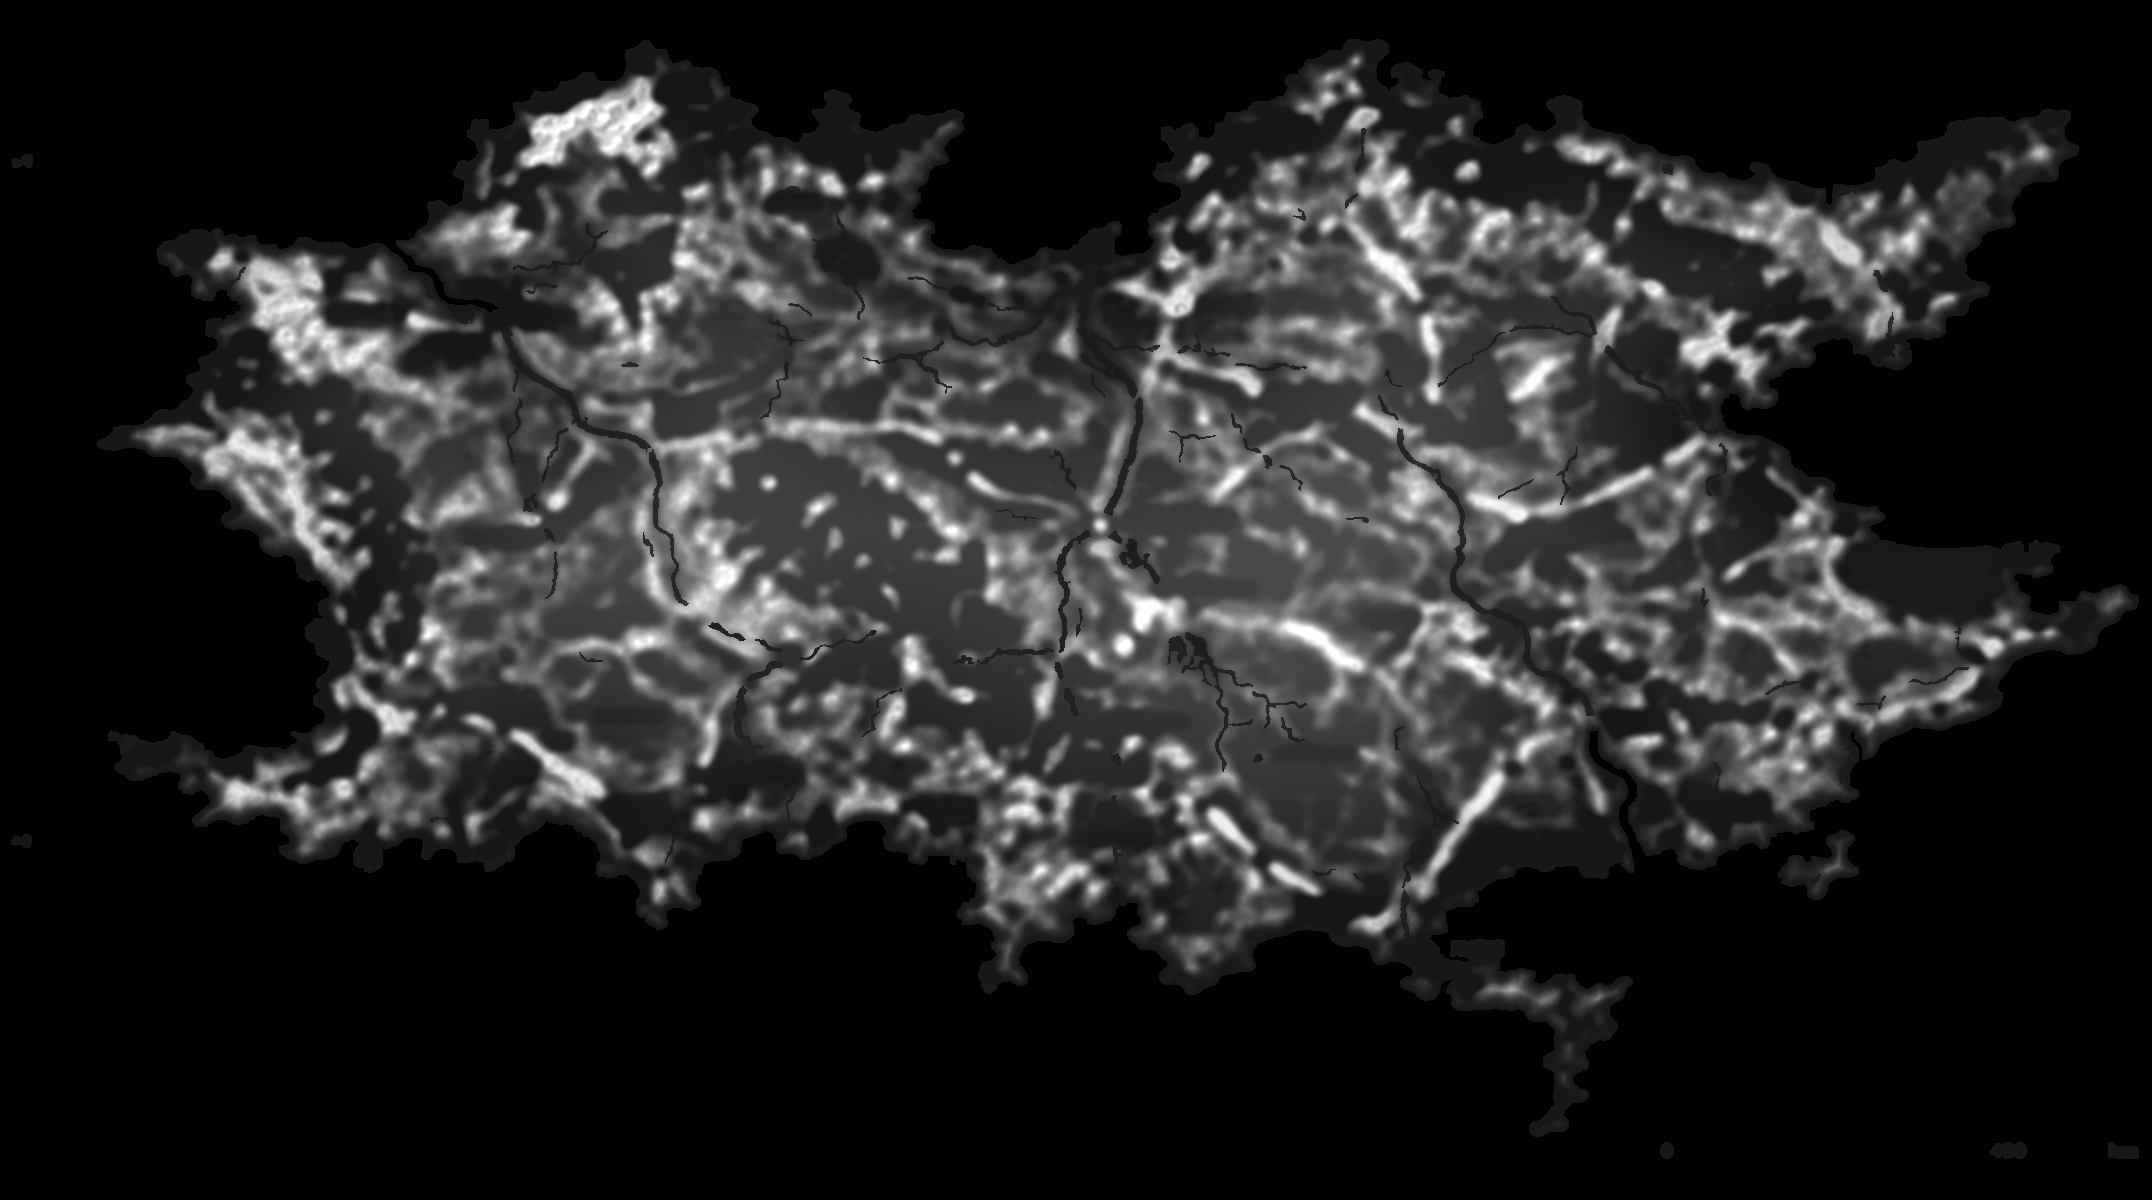
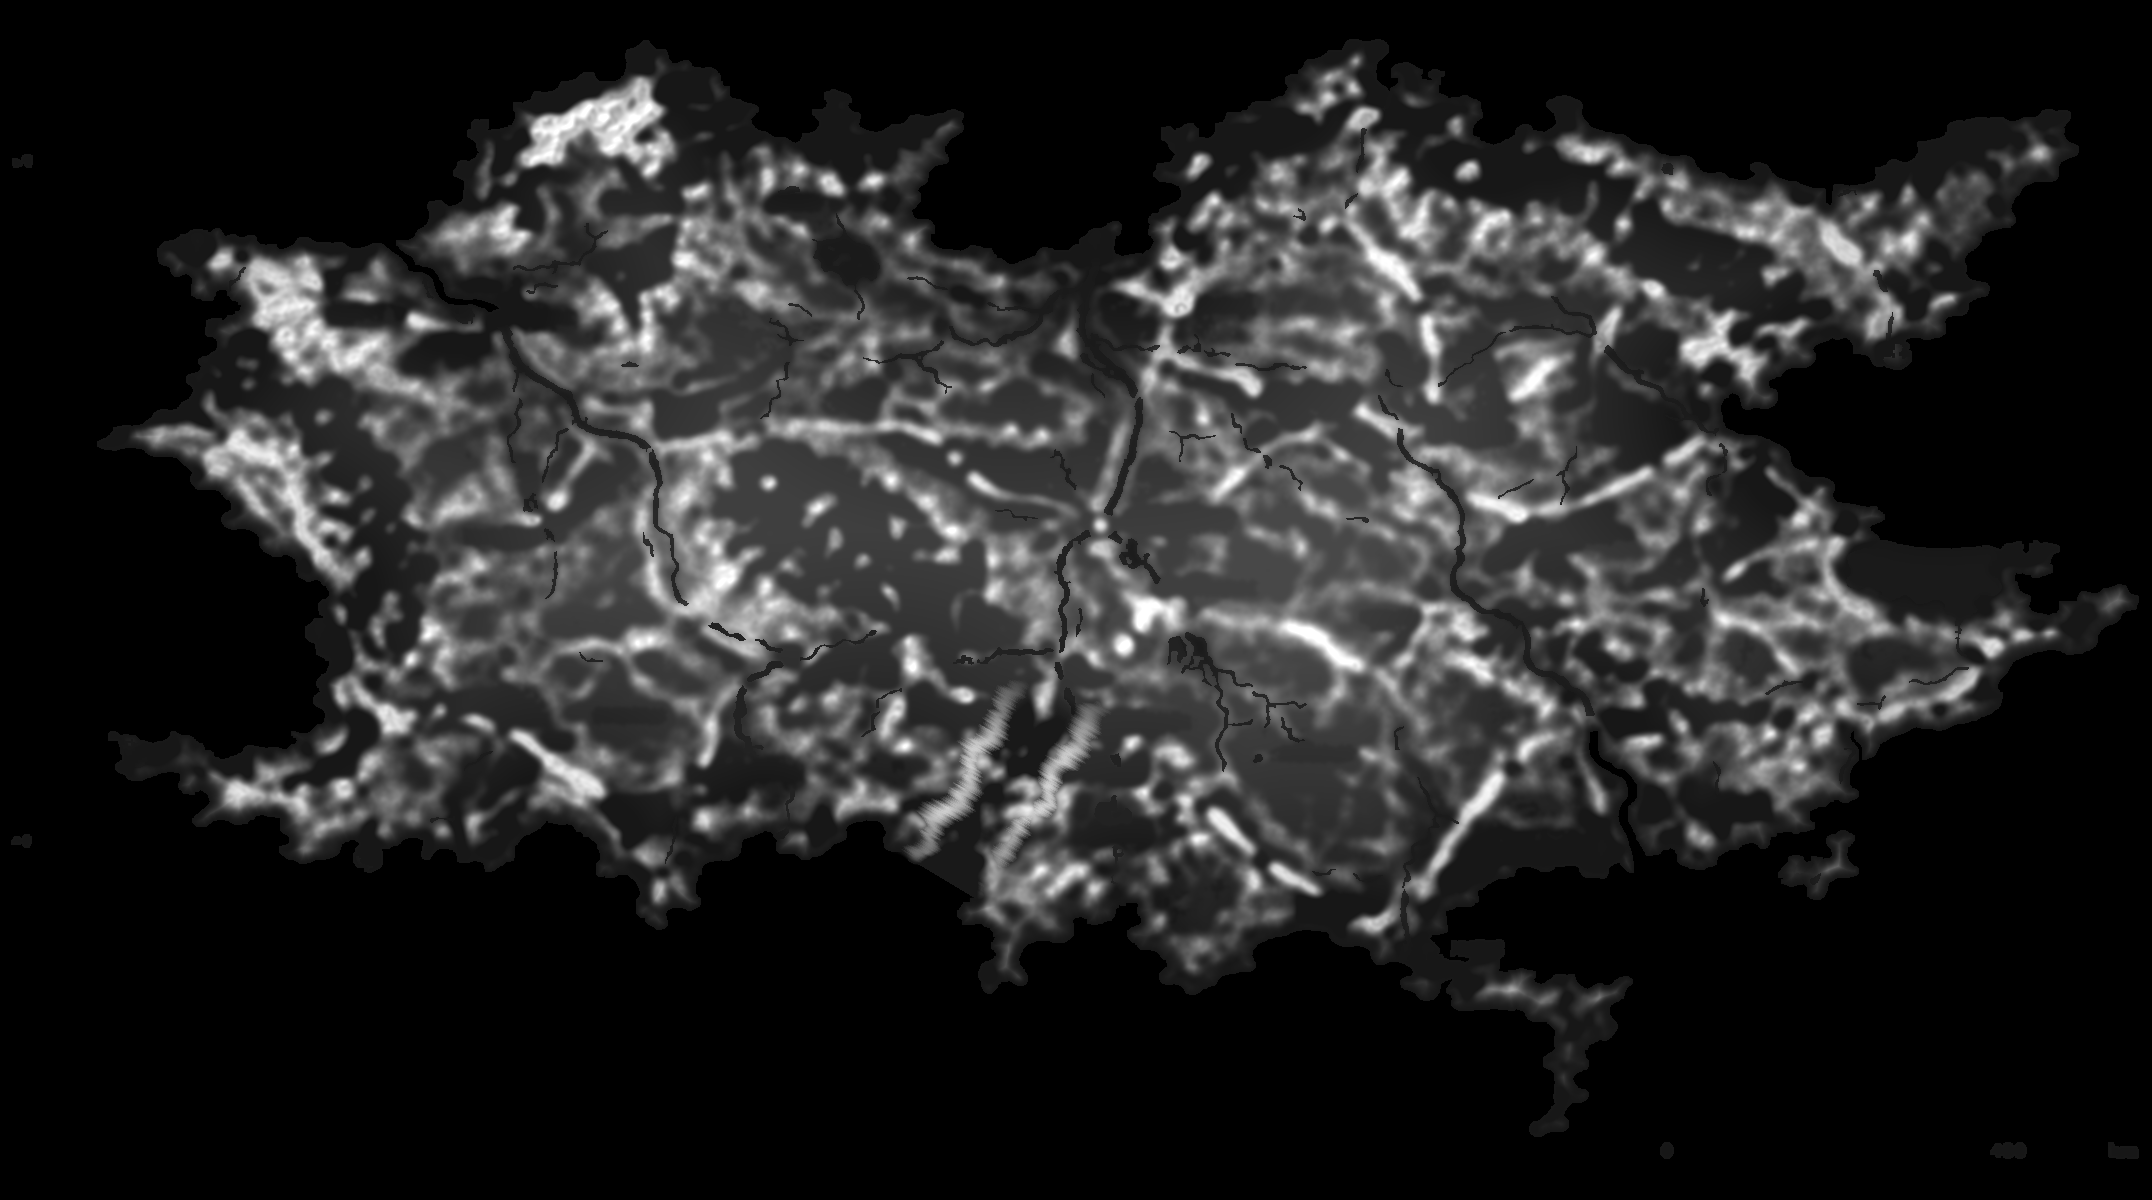
feat(flight): 地形編輯管線 + 卡耶爾山谷的兩道包夾山脈 — ver -223
build_terrain.py：從 _src/terrain/ 的基底重算，輸出高度圖與地表色圖。
基底永不修改，每次都從頭重算 —— 地形改壞回不去，而且調參數勢必反覆重跑。

⚠ 兩張圖必須同步。高度圖決定形狀，但**河道遮罩是從地表色反推的**
  （b>r+16 && b>g+4 && 70<b<200）。只改高度是乾谷，只改顏色是畫在山坡上的藍線。

山脈的幾何取自 Reference/R1water.png 的綠塊（PCA 實測主軸 121.0°、間距 80px）。
⚠ 綠塊是**走向示意**不是形狀，不能照著畫成長方形。

三個踩過的坑（都留在註解裡）：
1. 長度取 300 → 沿 121° 走到 +100px 就進雲海，憑空造出 11877px 新海岸線。
   收到 130，並把抬升乘上原始陸地遮罩。綠塊畫 124px 是有道理的。
2. 谷底壓到定值 52 → 最深切了 187 灰階。谷心 ±40px 有 20% 的像素高於 150，
   那是真的山，被整片削平。改成「最多只切 maxCut=42」，谷底保有原本起伏。
3. `np.maximum(out, SEA_GREY+4)` 寫成全圖 → 整片雲海被抬成陸地，
   海岸線動了 50.8%。那個下限只能作用在谷內。

成果：西脊 +133 抬到 186、谷底 -42、東脊 +70 抬到 195。
海岸線變動 1069px（0.041%，全是海變陸，集中在山脊西南端接岸處，離最近的城 249px）。

⚠ 那 1069px 新陸地不在 region_map 裡（索引是用舊的陸地遮罩建的），
  runtime 查表會回 0。範圍 70x43px，暫時不管。

Changed region(s): [[0.4047, 0.5858, 0.5293, 0.74]]

diff --git a/config.js b/config.js
@@ -8,7 +8,7 @@
 
 /* 版本號：顯示於診斷 HUD（首頁連點團徽 5 下開啟），每次部署遞增尾碼——
  *  用來確認手機（尤其 iOS 主畫面 App 的頑固快取）實際跑到的是哪一版。 */
-export const VERSION = 'ver 2026.08.19-222';
+export const VERSION = 'ver 2026.08.19-223';
 
 export const GAME_CONFIG = {
 

diff --git a/flight/build_terrain.py b/flight/build_terrain.py
@@ -1,0 +1,196 @@
+# -*- coding: utf-8 -*-
+"""依 Reference/R1water.png 的水文與地形設計，改寫大陸的高度圖與地表色圖。
+
+▍為什麼是「從基底重算」而不是就地修改
+地形改壞就回不去，而且要調參數勢必反覆重跑。所以原始的兩張圖鎖在
+`_src/terrain/` 當基底，**永不修改**；每次執行都從基底重算一次，輸出覆蓋
+`silvermoon_heightmap.png` / `silvermoon_terrain.png`。要退回原狀就把 EDITS
+清空重跑。
+
+▍為什麼兩張圖都要動
+高度圖決定形狀，但**河道遮罩是從地表色反推的**（index.html 的
+`b>r+16 && b>g+4 && 70<b<200`）。只改高度會得到「有溝沒有水色」的乾谷；
+只改顏色會得到「畫在山坡上的藍線」。兩邊必須同步。
+
+▍幾何來自哪裡
+Reference/R1water.png 是疊在 silvermoon_sheet.png 上畫的，兩張同尺寸，所以
+差分就能把畫上去的東西抽出來（同 build_regions.py）。實測抽到：
+  · 4 座高山湖，半徑均 48px（≈960 世界單位）
+  · 河道 32843 px（全圖 1.27%），7 條線段
+  · 2 道山脈走向示意，各 124x42px，主軸同為 121.0°
+⚠ 綠色方塊是**走向示意**，不是山脈的形狀。照著畫成長方形是錯的 ——
+  要沿那個軸拉出有起伏的山脊，長度也不受方塊長度限制。
+
+用法：  py flight/build_terrain.py [--only ridges|lakes|rivers]
+"""
+import argparse
+import math
+import os
+
+import cv2
+import numpy as np
+from PIL import Image
+
+HERE = os.path.dirname(os.path.abspath(__file__))
+BASE_H = os.path.join(HERE, '_src/terrain/heightmap_base.png')
+BASE_T = os.path.join(HERE, '_src/terrain/terrain_base.png')
+OUT_H = os.path.join(HERE, 'silvermoon_heightmap.png')
+OUT_T = os.path.join(HERE, 'silvermoon_terrain.png')
+
+MAP_SCALE = 20
+CLOUD_H = 44
+PEAK_SCALE = 520
+SEA_GREY = CLOUD_H / PEAK_SCALE * 255.0      # 21.6
+
+# ── 卡耶爾山谷：兩道包夾的山脈 ────────────────────────────────────────
+# 中心與主軸取自 R1water 的綠塊（PCA 實測 121.0°，兩塊間距 80px）。
+# ⚠ len 遠大於綠塊的 124px：那兩塊只是走向示意。實測現況的橫剖面在
+#   -80~-10px 已有 99~169 的高地、+70~+150 有 118~195，山脈本來就在那裡，
+#   這裡是把它們接起來、加高、讓中間的走廊乾淨。
+# ⚠ 長度 130 不是隨便取的：沿 121° 走到 +100px 就進雲海了（實測 17 個取樣點
+#   有 3~4 個在海平面以下）。綠塊畫 124px 是有道理的，延伸太長會憑空造出新陸地
+#   —— 第一版用 300 造出 11877px 的新海岸線，城的定位與國界索引全部要重跑。
+RIDGES = [
+    # (中心x, 中心y, 主軸角度°, 長度px, 半寬px, 脊頂灰階, 起伏幅度)
+    (963, 777, 121.0, 130, 24, 200, 32),
+    (1041, 794, 121.0, 130, 24, 212, 32),
+]
+# ⚠ maxCut 是這裡的關鍵。第一版把谷底壓到定值 52，結果最深切了 187 灰階 ——
+#   谷心 ±40px 有 20% 的像素高於 150，那是真的山，被整片削平。
+#   改成「最多只切 maxCut」，谷底因此保有原本的起伏，而且不會挖成峽谷。
+VALLEY = dict(x=1002, y=786, ang=121.0, length=110, half=20, feather=16, maxCut=42)
+
+
+def ridge_field(H, W, cx, cy, ang_deg, length, half, peak, wob, seed):
+    """沿一條線段生成山脊的高度場（只加不減，回傳要加上去的量）。
+
+    ⚠ 脊線要有起伏。等寬等高的直脊在低解析度緩衝上讀起來像一道牆 ——
+      這個引擎的地形是 234x334 上採樣的低頻內容，人造的規則形狀特別顯眼。
+      沿脊長加一條低頻噪聲，脊頂高度與中心線位置都跟著擺。
+    ⚠ 只回傳增量，由呼叫端做 max()：直接寫入會把既有的山削掉。
+    """
+    rng = np.random.default_rng(seed)
+    a = math.radians(ang_deg)
+    ux, uy = math.cos(a), math.sin(a)          # 沿脊
+    vx, vy = -uy, ux                           # 垂直脊
+
+    yy, xx = np.mgrid[0:H, 0:W].astype(np.float32)
+    dx, dy = xx - cx, yy - cy
+    t = dx * ux + dy * uy                      # 沿脊的座標
+    s = dx * vx + dy * vy                      # 離脊心的距離
+
+    # 沿脊的低頻起伏：脊頂高度與中心線橫向位移各一條
+    n = 512
+    ts = np.linspace(-length, length, n)
+    k = rng.normal(size=n)
+    k = np.convolve(np.r_[k, k, k], np.ones(41) / 41, 'same')[n:2 * n]
+    k /= (np.abs(k).max() + 1e-6)
+    k2 = rng.normal(size=n)
+    k2 = np.convolve(np.r_[k2, k2, k2], np.ones(61) / 61, 'same')[n:2 * n]
+    k2 /= (np.abs(k2).max() + 1e-6)
+
+    tc = np.clip((t + length) / (2 * length) * (n - 1), 0, n - 1)
+    i0 = tc.astype(np.int32)
+    hk = k[i0]
+    off = k2[i0] * half * 0.55                 # 中心線擺動
+    s = s - off
+
+    # 沿脊：兩端收斂（不然山脈是突然開始的）
+    along = np.clip(1.0 - (np.abs(t) / length) ** 2.2, 0, 1)
+    # 橫向：脊的斷面。用 cos² 而不是高斯 —— 高斯的尾巴太長，會把整片抬起來
+    w = half * (1.0 + 0.25 * hk)
+    lat = np.clip(1.0 - (np.abs(s) / np.maximum(w, 1e-3)), 0, 1)
+    lat = np.sin(lat * math.pi / 2) ** 2
+
+    amp = peak + wob * hk
+    return (along * lat * amp).astype(np.float32)
+
+
+def apply_ridges(h, land0):
+    add = np.zeros_like(h)
+    for i, (cx, cy, ang, ln, half, peak, wob) in enumerate(RIDGES):
+        add = np.maximum(add, ridge_field(h.shape[0], h.shape[1],
+                                          cx, cy, ang, ln, half, peak, wob, 1000 + i))
+    # ⚠ 只在**原本就是陸地**的地方抬升。不擋的話山脊會延伸到雲海上憑空造出
+    #   新陸地，海岸線一動，城的定位、路網、國界索引全部要重跑。
+    #   邊緣羽化一下，免得山脊在海岸線上被切成斷面。
+    lm = cv2.GaussianBlur(land0.astype(np.float32), (0, 0), 6.0)
+    add *= np.clip((lm - 0.35) / 0.5, 0, 1)
+    # ⚠ 只抬不降：既有的山比脊高的地方保持原樣（同河面整平那條規則）
+    out = np.maximum(h, add)
+    n = int((out > h + 0.5).sum())
+    print('  山脈：抬升 %d px（佔全圖 %.2f%%），最高 +%.0f 灰階'
+          % (n, 100.0 * n / h.size, (out - h).max()))
+    return out
+
+
+def carve_valley(h):
+    """把兩脊之間的走廊壓平成溪谷。
+
+    ⚠ 壓到定值會挖出峽谷（河面整平那一輪的教訓）。這裡是**上限**不是設定值：
+      高於 floor 的才壓下來，本來就低的不動，谷底因此保有原本的起伏。
+    """
+    V = VALLEY
+    a = math.radians(V['ang'])
+    ux, uy = math.cos(a), math.sin(a)
+    vx, vy = -uy, ux
+    yy, xx = np.mgrid[0:h.shape[0], 0:h.shape[1]].astype(np.float32)
+    dx, dy = xx - V['x'], yy - V['y']
+    t = dx * ux + dy * uy
+    s = np.abs(dx * vx + dy * vy)
+    inside = (np.abs(t) < V['length']) & (s < V['half'] + V['feather'])
+    k = np.clip((V['half'] + V['feather'] - s) / max(1e-3, V['feather']), 0, 1)
+    k *= np.clip(1.0 - (np.abs(t) / V['length']) ** 3, 0, 1)
+    out = np.where(inside, h - k * V['maxCut'], h)
+    # ⚠ 谷底不准掉進雲海 —— 但這個下限**只能作用在谷內**。
+    #   寫成全圖的 np.maximum 會把整片雲海抬成陸地（實測海岸線動了 50.8%）。
+    out = np.where(inside, np.maximum(out, SEA_GREY + 4), out)
+    n = int((out < h - 0.5).sum())
+    print('  溪谷：壓低 %d px，最深 -%.0f 灰階' % (n, (h - out).max()))
+    return out.astype(np.float32)
+
+
+def main():
+    ap = argparse.ArgumentParser()
+    ap.add_argument('--only', default='')
+    a = ap.parse_args()
+    steps = set(a.only.split(',')) if a.only else {'ridges'}
+
+    h = np.asarray(Image.open(BASE_H).convert('L')).astype(np.float32)
+    t = np.asarray(Image.open(BASE_T).convert('RGB')).astype(np.float32)
+    H, W = h.shape
+    land0 = h > SEA_GREY
+    print('基底 %dx%d   陸地 %.2f%%' % (W, H, 100 * land0.mean()))
+
+    if 'ridges' in steps:
+        h = apply_ridges(h, land0)
+        h = carve_valley(h)
+
+    land1 = h > SEA_GREY
+    moved = int((land1 != land0).sum())
+    print('海岸線變動 %d px（%.4f%%）%s'
+          % (moved, 100.0 * moved / h.size,
+             '' if moved < 500 else '  ⚠ 動太多，城的定位與國界索引都要重跑'))
+
+    # 地表色：抬高的地方要跟著換成岩／雪，不然是「綠色的山」
+    if 'ridges' in steps:
+        rise = np.asarray(Image.open(BASE_H).convert('L')).astype(np.float32)
+        d = h - rise
+        m = d > 6
+        if m.any():
+            # 依最終高度分：高處雪、中段裸岩
+            snow = m & (h > 190)
+            rock = m & ~snow
+            for msk, col, k in ((rock, (126, 120, 110), 0.72), (snow, (226, 228, 232), 0.80)):
+                if msk.any():
+                    for c in range(3):
+                        t[:, :, c][msk] = t[:, :, c][msk] * (1 - k) + col[c] * k
+            print('  地表色：裸岩 %d px、雪 %d px' % (int(rock.sum()), int(snow.sum())))
+
+    Image.fromarray(np.clip(h, 0, 255).astype(np.uint8)).save(OUT_H)
+    Image.fromarray(np.clip(t, 0, 255).astype(np.uint8)).save(OUT_T)
+    print('→ %s / %s' % (os.path.basename(OUT_H), os.path.basename(OUT_T)))
+
+
+if __name__ == '__main__':
+    main()
